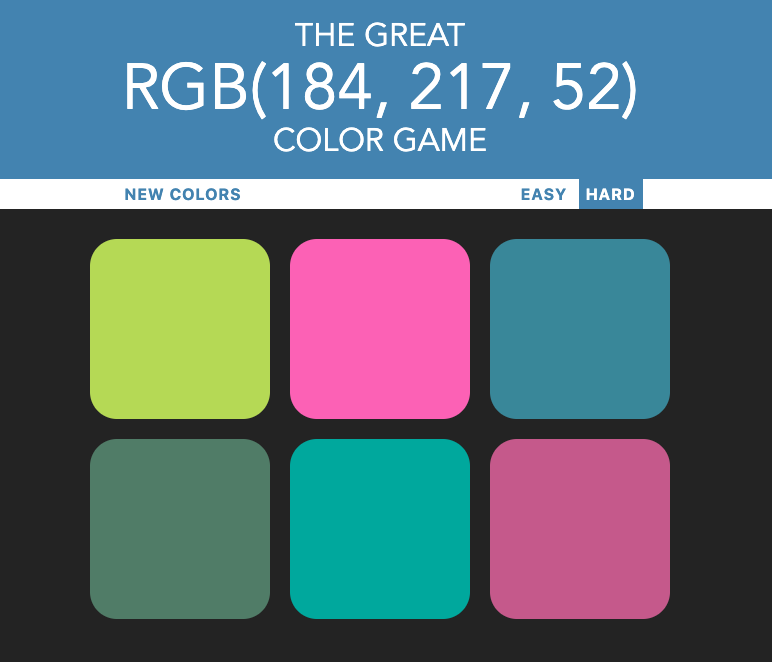
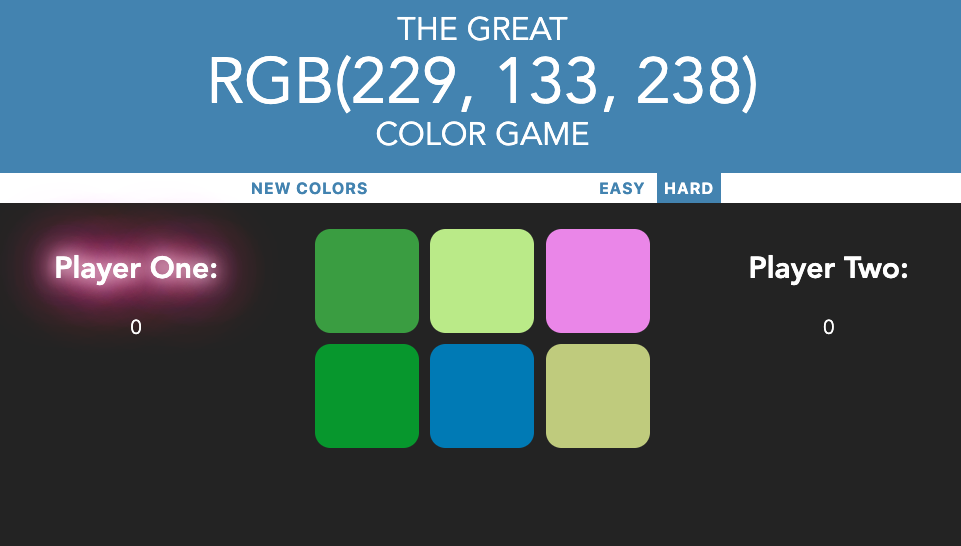
Add scoring system for two players

diff --git a/color-game.js b/color-game.js
@@ -1,12 +1,23 @@
 var numSquares = 6;
 var colors = [];
 var pickedColor;
+var playerMode = true; // True is equivalent to player one's turn
+var playerOneScore = 0;
+var playerTwoScore = 0;
+var winningScore = 30;
 var squares = document.querySelectorAll(".square");
 var colorDisplay = document.getElementById("colorDisplay");
 var messageDisplay = document.getElementById("message");
 var h1 = document.querySelector("h1");
 var resetButton = document.querySelector("#reset");
 var modeButtons = document.querySelectorAll(".mode");
+var oneScore = document.querySelector("#playerOne");
+var twoScore = document.querySelector("#playerTwo");
+var playerOneDisplay = document.querySelector("#playerOneDisplay");
+var playerTwoDisplay = document.querySelector("#playerTwoDisplay");
+var nextPlayerButton = document.querySelector("#nextPlayer");
+var overlayWinner = document.querySelector("#overlayWinner");
+var resetGameButton = document.querySelector("#resetGame");
 
 init();
 
@@ -38,11 +49,28 @@ function setupSquares() {
             if (clickedColor === pickedColor) {
                 messageDisplay.textContent = "Correct!"
                 changeColors(clickedColor);
-                resetButton.textContent = "Play Again?"
+                // resetButton.textContent = "Play Again?"
                 h1.style.backgroundColor = clickedColor;
+                if (playerMode) {
+                    playerOneScore += 10;
+                    oneScore.textContent = playerOneScore;
+                    gameWon(playerOneScore);
+                } else {
+                    playerTwoScore += 10;
+                    twoScore.textContent = playerTwoScore;
+                    gameWon(playerTwoScore);
+                }
+                nextPlayerButton.style.display = "block";
             } else {
                 this.style.backgroundColor = "#232323"
                 messageDisplay.textContent = "Try Again!";
+                if (playerMode) {
+                    playerOneScore -= 5;
+                    oneScore.textContent = playerOneScore;
+                } else {
+                    playerTwoScore -= 5;
+                    twoScore.textContent = playerTwoScore;
+                }
             }
         });
     }
@@ -76,6 +104,11 @@ resetButton.addEventListener("click", function() {
     reset();
 });
 
+nextPlayerButton.addEventListener("click", function() {
+    changePlayer();
+    nextPlayerButton.style.display = "none";
+});
+
 // Change squares to winning color
 function changeColors(color) {
     for (var i = 0; i < squares.length; i++) {
@@ -104,4 +137,20 @@ function randomColor() {
     var g = Math.floor(Math.random() * 256);
     var b = Math.floor(Math.random() * 256);
     return "rgb(" + r + ", " + g + ", " + b + ")"
+}
+
+function changePlayer() {
+    playerTwoDisplay.classList.toggle("turn");
+    playerOneDisplay.classList.toggle("turn");
+    playerMode = !playerMode;
+    reset();
+}
+
+function gameWon(score) {
+    if (score >= winningScore) {
+        playerOneScore = 0;
+        playerTwoScore = 0;
+        oneScore.textContent = playerOneScore;
+        twoScore.textContent = playerTwoScore;
+    }
 }

diff --git a/index.html b/index.html
@@ -21,15 +21,26 @@
         <button class="mode">Easy</button>
         <button class="selected mode">Hard</button>
     </div>
-    
-    <div id="container">
-        <div class="square"></div>
-        <div class="square"></div>
-        <div class="square"></div>
-        <div class="square"></div>
-        <div class="square"></div>
-        <div class="square"></div>
+    <div class="row">
+        <div class="column score">
+            <h2 id="playerOneDisplay" class="turn">Player One:</h2>
+            <p id="playerOne">0</p>
+        </div>
+        <div class="column">
+            <div class="square"></div>
+            <div class="square"></div>
+            <div class="square"></div>
+            <div class="square"></div>
+            <div class="square"></div>
+            <div class="square"></div>
+        </div>
+        <div class="column score">
+            <h2 id="playerTwoDisplay">Player Two:</h2>
+            <p id="playerTwo">0</p>
+        </div>
     </div>
+    <button id="nextPlayer">Next Player</button>
+
     <script type="text/javascript" src="color-game.js"></script>
 </body>
 </html>

diff --git a/styles.css b/styles.css
@@ -52,9 +52,45 @@ button:hover {
     color: white;
 }
 
-#container {
+.turn {
+    color: #fff;
+    -webkit-animation: glow 1s ease-in-out infinite alternate;
+    -moz-animation: glow 1s ease-in-out infinite alternate;
+    animation: glow 1s ease-in-out infinite alternate;
+}
+
+@-webkit-keyframes glow {
+    from {
+      text-shadow: 0 0 10px #fff, 0 0 20px #fff, 0 0 30px #e60073, 0 0 40px #e60073, 0 0 50px #e60073, 0 0 60px #e60073, 0 0 70px #e60073;
+    }
+    to {
+      text-shadow: 0 0 20px #fff, 0 0 30px #ff4da6, 0 0 40px #ff4da6, 0 0 50px #ff4da6, 0 0 60px #ff4da6, 0 0 70px #ff4da6, 0 0 80px #ff4da6;
+    }
+  }
+
+.column {
+    float: left;
+    width: 33.33%;
+    height: 100%;
+    margin-top: 20px;
+}
+
+.row:after {
+    content: "";
+    display: table;
+    clear: both;
+  }
+
+.score {
+    text-align: center;
+    color: white;
+    font-size: 20px;
+}
+
+#nextPlayer {
+    display: none;
     margin: 20px auto;
-    max-width: 600px;
+    color: white;   
 }
 
 #message {
